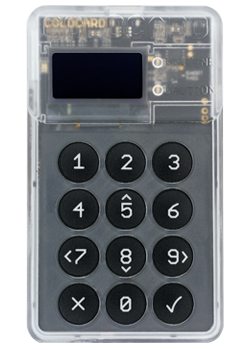
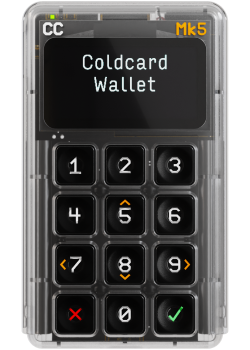
wallets: update Coldcard listing to reflect Mk5 model

diff --git a/_wallets/coldcard.md b/_wallets/coldcard.md
@@ -3,8 +3,8 @@
 # http://opensource.org/licenses/MIT.
 
 id: coldcard
-title: "Coldcard"
-titleshort: "Coldcard"
+title: "Coldcard Mk5"
+titleshort: "Coldcard Mk5"
 compat: "hardware"
 level: 2
 platform:
@@ -13,7 +13,7 @@ platform:
     os:
       - name: hardware
         text: "walletcoldcard"
-        link: "https://coldcardwallet.com/"
+        link: "https://coldcard.com/"
         source: "https://github.com/Coldcard/firmware"
         screenshot: "coldcard.png"
         features: "bech32 hardware_wallet legacy_addresses multisig segwit"